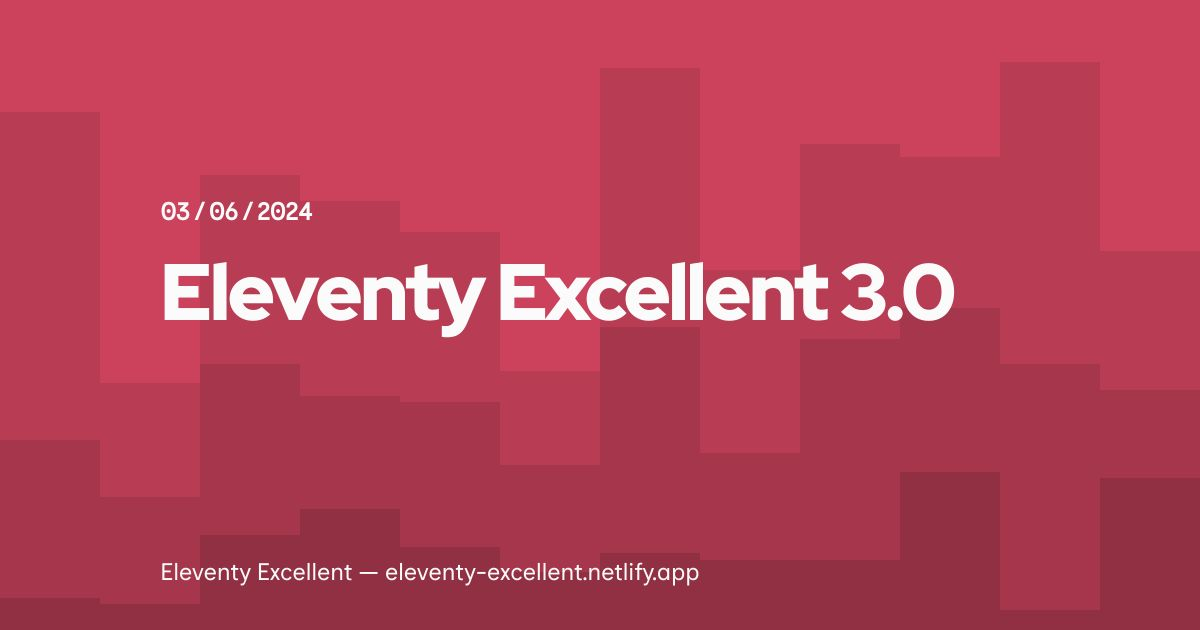
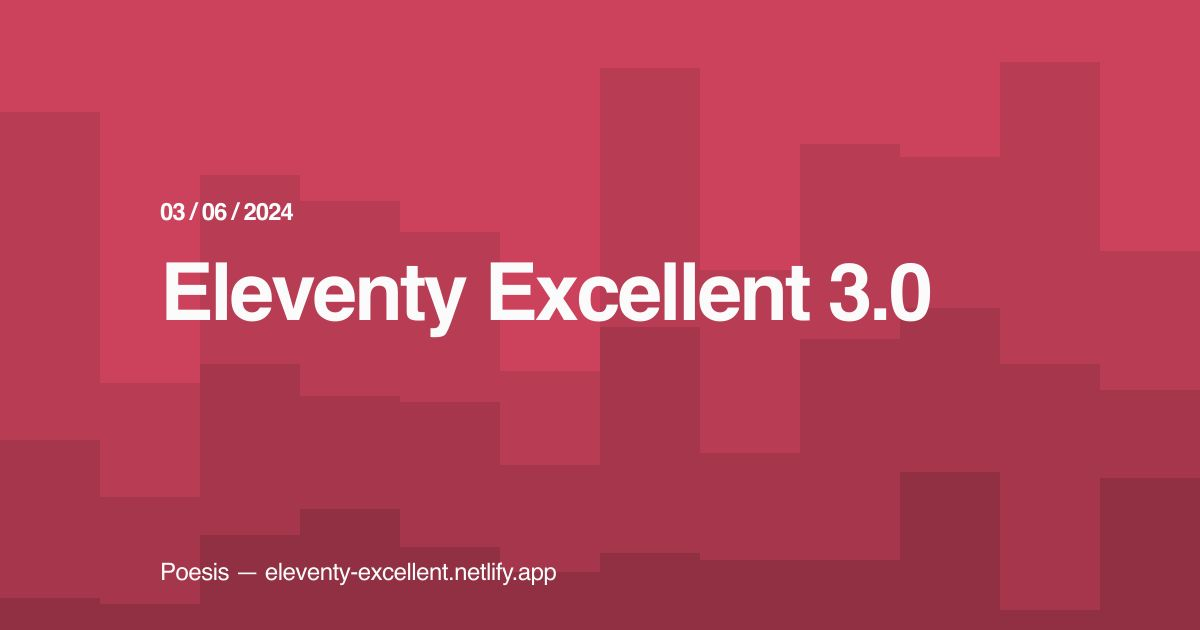
Change prettier option and run prettier

Changed region(s): [[0.1233, 0.3921, 0.8017, 0.5429], [0.1233, 0.8746, 0.5858, 0.9349], [0.1233, 0.3016, 0.2775, 0.3619]]

diff --git a/src/_data/meta.js b/src/_data/meta.js
@@ -1,22 +1,22 @@
 export const url = process.env.URL || 'http://localhost:8080';
-export const siteName = 'Eleventy Excellent';
-export const siteDescription = 'Eleventy starter for building modern, resilient websites';
-export const siteType = 'Person'; // schema
+export const siteName = 'Poesis';
+export const siteDescription = 'A community project in the process of being set up and seeking funding';
+export const siteType = 'Organisation'; // schema
 export const locale = 'en_EN';
 export const lang = 'en';
 export const skipContent = 'Skip to content';
 export const author = {
-  name: 'Lene Saile', // i.e. Lene Saile - page / blog author's name. Must be set.
+  name: 'Fay Andrews-Hodgson', // i.e. Lene Saile - page / blog author's name. Must be set.
   avatar: '/icon-512x512.png', // path to the author's avatar. In this case just using a favicon.
-  email: 'hola@lenesaile.com', // i.e. hola@lenesaile.com - email of the author
-  website: 'https://www.lenesaile.com', // i.e. https.://www.lenesaile.com - the personal site of the author
-  fediverse: 'https://front-end.social/@lene' // used for highlighting journalism on the fediverse. Can be Mastodon, Flipboard, Threads, WordPress (with the ActivityPub plugin installed), PeerTube, Pixelfed, etc. https://blog.joinmastodon.org/2024/07/highlighting-journalism-on-mastodon/
+  email: 'fay@andrews-hodgson.com', // i.e. hola@lenesaile.com - email of the author
+  website: 'https://andrews-hodgson.com', // i.e. https.://www.lenesaile.com - the personal site of the author
+  // fediverse: 'https://front-end.social/@lene' // used for highlighting journalism on the fediverse. Can be Mastodon, Flipboard, Threads, WordPress (with the ActivityPub plugin installed), PeerTube, Pixelfed, etc. https://blog.joinmastodon.org/2024/07/highlighting-journalism-on-mastodon/
 };
 export const creator = {
   name: 'Lene Saile', // i.e. Lene Saile - creator's (developer) name.
   email: 'hola@lenesaile.com',
   website: 'https://www.lenesaile.com',
-  social: 'https://front-end.social/@lene'
+  social: 'https://front-end.social/@lene',
 };
 export const pathToSvgLogo = 'src/assets/svg/misc/logo.svg'; // used for favicon generation
 export const themeColor = '#DD4462'; //  Manifest: defines the default theme color for the application
@@ -33,13 +33,13 @@ export const blog = {
     {
       title: 'Atom Feed',
       url: '/feed.xml',
-      type: 'application/atom+xml'
+      type: 'application/atom+xml',
     },
     {
       title: 'JSON Feed',
       url: '/feed.json',
-      type: 'application/json'
-    }
+      type: 'application/json',
+    },
   ],
   // Tags
   tagSingle: 'Tag',
@@ -50,42 +50,42 @@ export const blog = {
   paginationPage: 'Page',
   paginationPrevious: 'Previous',
   paginationNext: 'Next',
-  paginationNumbers: true
+  paginationNumbers: true,
 };
 export const details = {
   aria: 'section controls',
   expand: 'expand all',
-  collapse: 'collapse all'
+  collapse: 'collapse all',
 };
 export const navigation = {
   navLabel: 'Menu',
   ariaTop: 'Main',
   ariaBottom: 'Complementary',
   ariaPlatforms: 'Platforms',
-  drawerNav: false
+  drawerNav: false,
 };
 export const themeSwitch = {
   title: 'Theme',
   light: 'light',
-  dark: 'dark'
+  dark: 'dark',
 };
 export const greenweb = {
   // this goes into src/common/greenweb.njk
   providers: {
     // if you want to add more than one, edit the array directly.
     domain: 'netlify.com',
-    service: 'cdn'
+    service: 'cdn',
   },
   credentials: {
     // optional, eg: 	{ domain='my-org.com', doctype = 'webpage', url = 'https://my-org.com/our-climate-record'}
     domain: '',
     doctype: '',
-    url: ''
-  }
+    url: '',
+  },
 };
 export const viewRepo = {
   // this is for the view/edit on github link. The value in the package.json will be pulled in.
   allow: true,
-  infoText: 'View this page on GitHub'
+  infoText: 'View this page on GitHub',
 };
-export const easteregg = true;
+export const easteregg = false;

diff --git a/src/_config/plugins/markdown.js b/src/_config/plugins/markdown.js
@@ -15,22 +15,22 @@ export const markdownLib = markdownIt({
   html: true,
   breaks: true,
   linkify: true,
-  typographer: true
+  typographer: true,
 })
   .disable('code')
   .use(markdownItPrism, {
-    defaultLanguage: 'plaintext'
+    defaultLanguage: 'plaintext',
   })
   .use(markdownItAnchor, {
     slugify: slugifyString,
     tabIndex: false,
     permalink: markdownItAnchor.permalink.headerLink({
-      class: 'heading-anchor'
-    })
+      class: 'heading-anchor',
+    }),
   })
   .use(markdownItClass, {
     ol: 'list',
-    ul: 'list'
+    ul: 'list',
   })
   .use(markdownItLinkAttributes, [
     {
@@ -39,9 +39,9 @@ export const markdownLib = markdownIt({
         return href.match(/^https?:\/\//);
       },
       attrs: {
-        rel: 'noopener'
-      }
-    }
+        rel: 'noopener',
+      },
+    },
   ])
   .use(markdownItEmoji)
   .use(markdownItEleventyImg, {
@@ -49,12 +49,12 @@ export const markdownLib = markdownIt({
       widths: [440, 880, 1024],
       urlPath: '/assets/images/',
       outputDir: './dist/assets/images/',
-      formats: ['webp', 'jpeg']
+      formats: ['webp', 'jpeg'],
     },
     globalAttributes: {
       loading: 'lazy',
       decoding: 'async',
-      sizes: '90vw'
+      sizes: '90vw',
     },
     // prepend src for markdown images
     resolvePath: (filepath, env) => {
@@ -68,7 +68,7 @@ export const markdownLib = markdownIt({
 
       const metadata = Image.statsSync(src, options);
       const imageMarkup = Image.generateHTML(metadata, attrs, {
-        whitespaceMode: 'inline'
+        whitespaceMode: 'inline',
       });
 
       const imageElement = attrs.title
@@ -79,7 +79,7 @@ export const markdownLib = markdownIt({
         : `${imageMarkup}`;
 
       return imageElement;
-    }
+    },
   })
   .use(markdownItFootnote)
   .use(markdownitMark)

diff --git a/src/_config/shortcodes/image.js b/src/_config/shortcodes/image.js
@@ -36,7 +36,7 @@ export const imageShortcode = async (
   className,
   sizes = '90vw',
   widths = [440, 650, 960, 1200],
-  formats = ['avif', 'webp', 'jpeg']
+  formats = ['avif', 'webp', 'jpeg'],
 ) => {
   const metadata = await Image(src, {
     widths: [...widths],
@@ -47,7 +47,7 @@ export const imageShortcode = async (
       const extension = path.extname(src);
       const name = path.basename(src, extension);
       return `${name}-${width}w.${format}`;
-    }
+    },
   });
 
   const lowsrc = metadata.jpeg[metadata.jpeg.length - 1];
@@ -75,7 +75,7 @@ export const imageShortcode = async (
     height: lowsrc.height,
     alt,
     loading,
-    decoding: loading === 'eager' ? 'sync' : 'async'
+    decoding: loading === 'eager' ? 'sync' : 'async',
   });
 
   const imageElement = caption

diff --git a/src/_data/navigation.js b/src/_data/navigation.js
@@ -1,34 +1,34 @@
 export default {
   top: [
     {
-      text: 'About',
-      url: '/about/'
+      text: 'What',
+      url: '/what/',
     },
     {
-      text: 'Docs',
-      url: '/get-started/'
+      text: 'Way',
+      url: '/way/',
+    },
+    {
+      text: 'Who',
+      url: '/who/',
     },
     {
       text: 'Built with',
-      url: '/built-with/'
+      url: '/built-with/',
     },
     {
       text: 'Blog',
-      url: '/blog/'
-    }
+      url: '/blog/',
+    },
   ],
   bottom: [
     {
-      text: 'Style guide',
-      url: '/styleguide/'
-    },
-    {
       text: 'Imprint',
-      url: '/imprint/'
+      url: '/imprint/',
     },
     {
       text: 'Privacy',
-      url: '/privacy/'
-    }
-  ]
+      url: '/privacy/',
+    },
+  ],
 };

diff --git a/src/_config/plugins/js-config.js b/src/_config/plugins/js-config.js
@@ -23,7 +23,7 @@ export const jsConfig = eleventyConfig => {
           entryPoints: [inputPath],
           outfile: outputPath,
           bundle: true,
-          minify: true
+          minify: true,
         });
         return;
       }
@@ -35,11 +35,11 @@ export const jsConfig = eleventyConfig => {
           entryPoints: [inputPath],
           bundle: true,
           minify: true,
-          write: false
+          write: false,
         });
 
         return output.outputFiles[0].text;
       };
-    }
+    },
   });
 };

diff --git a/src/_config/setup/generate-screenshots.js b/src/_config/setup/generate-screenshots.js
@@ -5,7 +5,7 @@ import path from 'node:path';
 const dataPath = './src/_data/builtwith.json';
 const screenshotDir = path.join(
   path.dirname(new URL(import.meta.url).pathname),
-  '../../assets/images/screenshots'
+  '../../assets/images/screenshots',
 );
 
 async function fetchScreenshot(url, filePath) {
@@ -15,7 +15,7 @@ async function fetchScreenshot(url, filePath) {
 
   const buffer = await fetch(apiUrl, {
     duration: '1d',
-    type: 'buffer'
+    type: 'buffer',
   });
 
   await fs.writeFile(filePath, buffer);

diff --git a/src/_config/shortcodes/svg.js b/src/_config/shortcodes/svg.js
@@ -18,6 +18,6 @@ export const svgShortcode = async (svgName, ariaName = '', className = '', style
 
   return data.replace(
     /<svg(.*?)>/,
-    `<svg$1 ${ariaName ? `aria-label="${ariaName}"` : 'aria-hidden="true"'} ${className ? `class="${className}"` : ''} ${styleName ? `style="${styleName}"` : ''} >`
+    `<svg$1 ${ariaName ? `aria-label="${ariaName}"` : 'aria-hidden="true"'} ${className ? `class="${className}"` : ''} ${styleName ? `style="${styleName}"` : ''} >`,
   );
 };

diff --git a/src/assets/scripts/bundle/theme-toggle.js b/src/assets/scripts/bundle/theme-toggle.js
@@ -3,11 +3,11 @@ const lightLabel = '{{ meta.themeSwitch.light }}';
 const darkLabel = '{{ meta.themeSwitch.dark }}';
 const themeColors = {
   dark: '{{ designTokens.colors.items[0].value }}', // Base Dark
-  light: '{{ designTokens.colors.items[1].value }}' // Base Light
+  light: '{{ designTokens.colors.items[1].value }}', // Base Light
 };
 
 const theme = {
-  value: getColorPreference()
+  value: getColorPreference(),
 };
 
 window.onload = () => {

diff --git a/src/_config/plugins/css-config.js b/src/_config/plugins/css-config.js
@@ -32,7 +32,7 @@ export const cssConfig = eleventyConfig => {
           postcssImport,
           tailwindcss,
           autoprefixer,
-          cssnano
+          cssnano,
         ]).process(inputContent, {from: inputPath});
 
         // Write the output to all specified paths
@@ -43,6 +43,6 @@ export const cssConfig = eleventyConfig => {
 
         return result.css;
       };
-    }
+    },
   });
 };

diff --git a/src/_config/setup/generate-favicons.js b/src/_config/setup/generate-favicons.js
@@ -26,7 +26,7 @@ async function createFavicons() {
       bottom: 50,
       left: 50,
       right: 50,
-      background: {r: 0, g: 0, b: 0, alpha: 0} // Transparent padding
+      background: {r: 0, g: 0, b: 0, alpha: 0}, // Transparent padding
     })
     .toFile(`${outputDir}/maskable-icon.png`);
 

diff --git a/src/_config/utils/clamp-generator.js b/src/_config/utils/clamp-generator.js
@@ -36,8 +36,8 @@ export const clampGenerator = tokens => {
     return {
       name,
       value: `clamp(${minSize}rem, ${intersection.toFixed(2)}rem + ${(slope * 100).toFixed(
-        2
-      )}vw, ${maxSize}rem)`
+        2,
+      )}vw, ${maxSize}rem)`,
     };
   });
 };

diff --git a/src/_config/events/svg-to-jpeg.js b/src/_config/events/svg-to-jpeg.js
@@ -23,7 +23,7 @@ export const svgToJpeg = async function () {
           outputDir: ogImagesDir,
           filenameFormat: function (id, src, width, format, options) {
             return `${outputFilename}.${format}`;
-          }
+          },
         });
       }
     });
